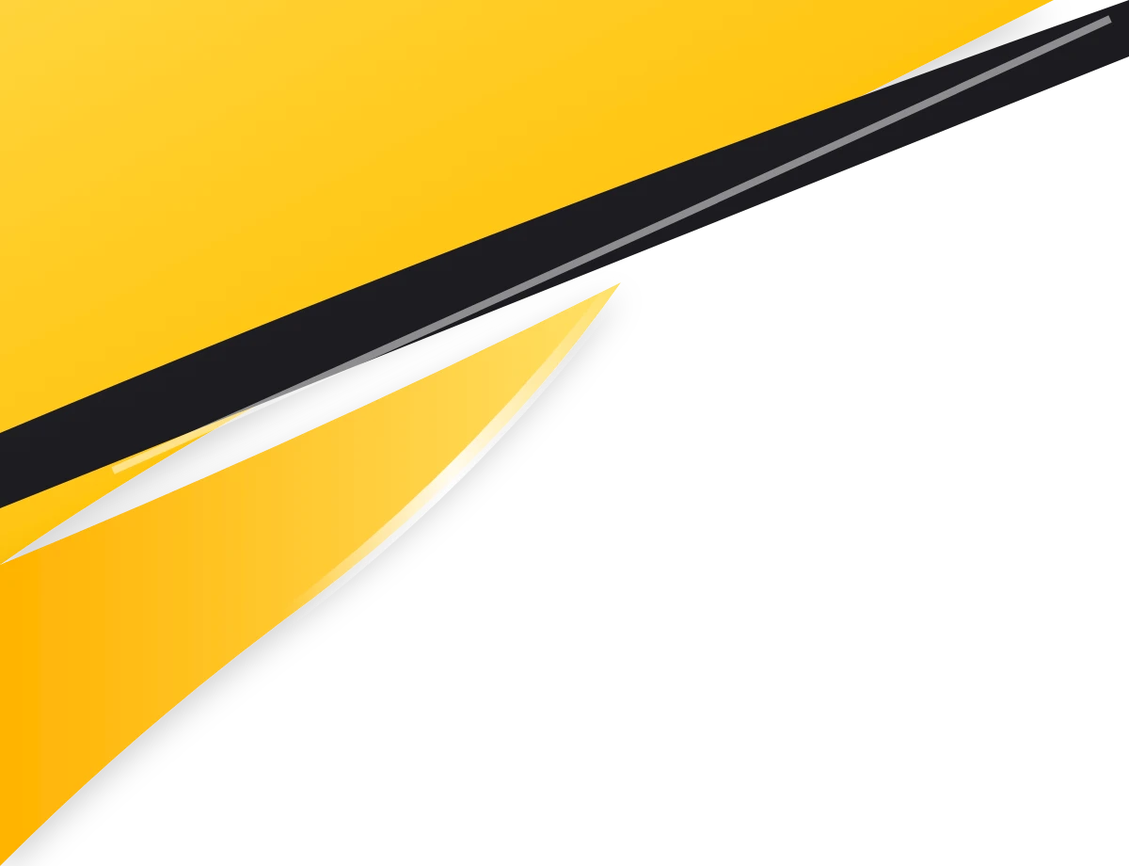
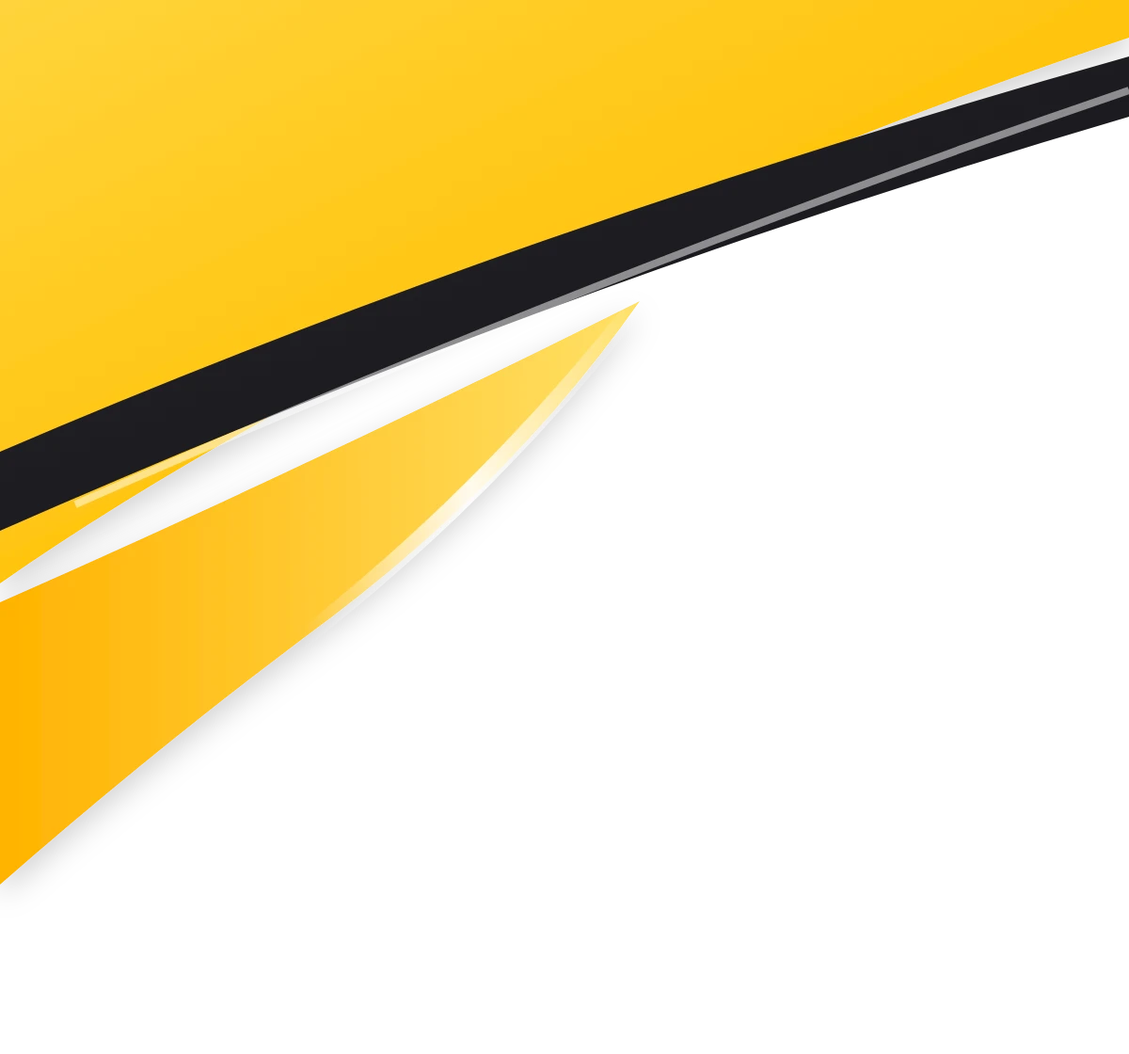
Кабинеттин үстүндөгү тилкелер толук туурасына, кесилбейт
Claude-Session: https://claude.ai/code/session_01QqaFd74dCabiCok1GW4n4v

Changed region(s): [[0.0, 0.0, 1.0, 1.0]]

diff --git a/static/rider.html b/static/rider.html
@@ -100,15 +100,15 @@ input.f:focus{border-color:var(--navy)}
 .quick{display:flex;gap:6px;flex-wrap:wrap;margin-bottom:8px}
 .quick button{border:1px solid var(--line);background:#fff;border-radius:16px;padding:6px 10px;font-size:13px;cursor:pointer}
 </style>
-<link rel="preload" as="image" href="/static/h_taxi.webp?v=8"><link rel="preload" as="image" href="/static/h_box.webp?v=8"><link rel="preload" as="image" href="/static/h_girl.webp?v=8"><link rel="preload" as="image" href="/static/h_map.webp?v=8">
-<link rel="stylesheet" href="/static/theme.css?v=69">
+<link rel="preload" as="image" href="/static/h_taxi.webp?v=9"><link rel="preload" as="image" href="/static/h_box.webp?v=9"><link rel="preload" as="image" href="/static/h_girl.webp?v=9"><link rel="preload" as="image" href="/static/h_map.webp?v=9">
+<link rel="stylesheet" href="/static/theme.css?v=70">
 </head>
 <body>
 <div id="map"></div>
 
 <div class="top">
   <div class="lcol"><div class="logo"><img src="/static/logo.png?v=2" alt="">Такси <b>ТАП!</b></div>
-    <div class="role"><a class="on"><img src="/static/r_bag.webp?v=8" alt="">Жүргүнчү</a><a href="/driver"><img src="/static/r_car.webp?v=8" alt="" class="rc">Айдоочу</a></div></div>
+    <div class="role"><a class="on"><img src="/static/r_bag.webp?v=9" alt="">Жүргүнчү</a><a href="/driver"><img src="/static/r_car.webp?v=9" alt="" class="rc">Айдоочу</a></div></div>
   <button class="round" id="menuBtn" aria-label="Кабинет">👤</button>
 </div>
 
@@ -120,7 +120,7 @@ input.f:focus{border-color:var(--navy)}
 
 <div class="sheet" id="sheet"><div class="grab"></div><div id="view"></div></div>
 <div class="home hide" id="home"></div>
-<nav id="bnav" class="bnav pro"><a data-k="home" class="on"><img src="/static/n_home.webp?v=8" alt="">Башкы бет</a><a data-k="trips"><img src="/static/n_trips.webp?v=8" alt="">Сапарлар</a><a data-k="go" class="big"><img src="/static/n_go.webp?v=8" alt="">Чакыруу</a><a data-k="help"><img src="/static/n_help.webp?v=8" alt="">Жардам</a><a data-k="cab"><img src="/static/n_cab.webp?v=8" alt="">Кабинет</a></nav>
+<nav id="bnav" class="bnav pro"><a data-k="home" class="on"><img src="/static/n_home.webp?v=9" alt="">Башкы бет</a><a data-k="trips"><img src="/static/n_trips.webp?v=9" alt="">Сапарлар</a><a data-k="go" class="big"><img src="/static/n_go.webp?v=9" alt="">Чакыруу</a><a data-k="help"><img src="/static/n_help.webp?v=9" alt="">Жардам</a><a data-k="cab"><img src="/static/n_cab.webp?v=9" alt="">Кабинет</a></nav>
 
 <script src="https://unpkg.com/leaflet@1.9.4/dist/leaflet.js"></script>
 <script src="/static/area.js"></script>
@@ -230,7 +230,7 @@ function gpsPaint() {
   const el = $("#gpsInfo"); if (!el) return;
   const g = S.gps;
   el.className = "gpsinfo " + (g.state === "ok" ? (S.gpsBad ? "mid" : "good") : "bad");
-  if (g.state === "out") { el.innerHTML = `Сиз иштөө аймагынын сыртындасыз <button class="gpsarea" id="gpsArea"><img src="/static/c_map.webp?v=8" alt="">Аймакты көрүү</button>`;
+  if (g.state === "out") { el.innerHTML = `Сиз иштөө аймагынын сыртындасыз <button class="gpsarea" id="gpsArea"><img src="/static/c_map.webp?v=9" alt="">Аймакты көрүү</button>`;
     $("#gpsArea").onclick = () => { homeOn(false); showAreaOnMap(map, () => viewStepA()); }; }
   else el.textContent = g.state === "ok" ? (S.gpsBad ? `📡 Болжолдуу (±${g.acc} м) — картадан тактаңыз` : `📡 GPS так (±${g.acc} м)`)
     : g.state === "denied" ? "⛔ GPS'ке уруксат жок — браузердин жөндөөсүнөн уруксат бериңиз"
@@ -306,11 +306,11 @@ function viewIdle() {
   if (P.work) rec.push({ico:"💼", name:"Иш", sub:P.work.name || "", lat:P.work.lat, lon:P.work.lon});
   (P.recent || []).forEach(r => rec.push({ico:"🕘", name:r.name, sub:"Акыркы сапар", lat:r.lat, lon:r.lon}));
   $("#home").innerHTML = `<div class="hh"><div class="logo"><img src="/static/logo.png?v=2" alt="">Такси <b>ТАП!</b></div><button class="round" id="hMenu" aria-label="Кабинет">${avBtn()}</button></div>
-    <div class="role hrole"><a class="on"><img src="/static/r_bag.webp?v=8" alt="">Жүргүнчү</a>${role2()}</div>
-    <button class="haddr" id="hAddr"><small><img class="pinI" src="/static/pin.webp?v=8" alt="">Сиз турган жер</small><b id="fromTxt">${esc(S.fromAddr || "Аныкталууда…")}</b><span>›</span></button>
-    <div class="tiles">${tile("tTaxi", "h_taxi.webp?v=8", "Такси", `<span id="taxiEta">${homeEta()}</span>`, true, !has("delivery"))}
-      ${has("delivery") ? tile("tDel", "h_box.webp?v=8", "Жеткирүү", "Буюм, документ") : ""}</div>
-    <div class="tiles2">${stile("tOther", "h_girl.webp?v=8", "Башка адамга такси заказ кылуу")}${stile("tMap", "h_map.webp?v=8", "Картадан<br>белгилөө")}</div>
+    <div class="role hrole"><a class="on"><img src="/static/r_bag.webp?v=9" alt="">Жүргүнчү</a>${role2()}</div>
+    <button class="haddr" id="hAddr"><small><img class="pinI" src="/static/pin.webp?v=9" alt="">Сиз турган жер</small><b id="fromTxt">${esc(S.fromAddr || "Аныкталууда…")}</b><span>›</span></button>
+    <div class="tiles">${tile("tTaxi", "h_taxi.webp?v=9", "Такси", `<span id="taxiEta">${homeEta()}</span>`, true, !has("delivery"))}
+      ${has("delivery") ? tile("tDel", "h_box.webp?v=9", "Жеткирүү", "Буюм, документ") : ""}</div>
+    <div class="tiles2">${stile("tOther", "h_girl.webp?v=9", "Башка адамга такси заказ кылуу")}${stile("tMap", "h_map.webp?v=9", "Картадан<br>белгилөө")}</div>
     ${has("comfort") || has("minivan") ? `<div class="tiles3">${has("comfort") ? `<button class="sm" id="tComf"><span>🚘</span>Комфорт</button>` : ""}${has("minivan") ? `<button class="sm" id="tVan"><span>🚐</span>Минивэн</button>` : ""}</div>` : ""}
     <button class="hsearch" id="hSearch">🔍 <span>Каякка барасыз?</span><em>›</em></button>
     <div class="hrec">${rec.slice(0, 5).map((r, i) => `<button class="rec" data-i="${i}"><span class="pi">${r.ico}</span><span class="rt"><b>${esc(r.name)}</b><small>${esc(r.sub)}</small></span><span class="t">${minsTo(r)}</span><span class="chev">›</span></button>`).join("")}</div>
@@ -548,7 +548,7 @@ async function viewQuote() {
     <div class="row"><span class="bul to lt">Б</span><div style="flex:1"><b>${esc(S.toAddr)}</b></div><input class="hn" id="hnT" placeholder="үй №" maxlength="12" value="${esc(S.hnT || "")}"></div>
     <input class="f lm" id="lmT" maxlength="60" placeholder="Б белгиси (милдеттүү эмес)" value="${esc(S.lmT || "")}">
     <div class="cls" id="cls">${q.classes.map(c => `<div data-c="${c.id}"><i>${ICON[c.id] || "🚕"}</i><div class="muted">${esc(c.name)}</div><b>${priceTxt(c)}${q.surge > 1 && c.price ? `<s>${Math.round(c.price / q.surge / 10) * 10} с</s>` : ""}</b></div>`).join("")}</div>
-    ${q.fixed ? `<div class="fixbox"><img src="/static/c_map.webp?v=8" alt=""><span><b>Туруктуу баа</b>${esc(q.fixed)} — баа өзгөрбөйт</span></div>` : ""}
+    ${q.fixed ? `<div class="fixbox"><img src="/static/c_map.webp?v=9" alt=""><span><b>Туруктуу баа</b>${esc(q.fixed)} — баа өзгөрбөйт</span></div>` : ""}
     ${q.surge > 1 ? `<div class="surgebox"><span>💓</span>Талап жогору ×${q.surge} — баа бир аз кымбатыраак. Бир аздан кийин арзандашы мүмкүн.</div>` : ""}
     <div class="muted" style="margin-top:6px">${sub} · <span id="qp"></span></div>
     <div id="extra"></div>
@@ -762,7 +762,7 @@ function sheetBox(html, after) {
   const x = $("#bxX"); if (x) x.onclick = closeBox; if (after) after();
 }
 function confirmOut() {
-  if (S.ride) return sheetBox(`<div class="lgx"><div class="lg-ic" style="background:#fff6dd"><img src="/static/r_car.webp?v=8" alt="" style="width:56px"></div><h2>Азыр чыгууга болбойт</h2>
+  if (S.ride) return sheetBox(`<div class="lgx"><div class="lg-ic" style="background:#fff6dd"><img src="/static/r_car.webp?v=9" alt="" style="width:56px"></div><h2>Азыр чыгууга болбойт</h2>
       <p class="muted">Сизде жүрүп жаткан сапар бар. Адегенде сапарды бүтүрүңүз же жокко чыгарыңыз.</p>
       <button class="btn main" id="lgBack">Сапарга кайтуу</button></div>`, () => { $("#lgBack").onclick = () => { closeBox(); viewRide(); }; });
   sheetBox(`<div class="lgx"><div class="lg-ic">🚪</div><h2>Аккаунттан чыгасызбы?</h2>
@@ -797,7 +797,7 @@ function viewDone(r) {
   render(`${head}
     ${r.discount ? `<p class="muted" style="margin:-4px 0 6px">🎁 Промокод: −${Math.round(r.discount)} сом</p>` : ""}${r.wait.fee ? `<p class="muted" style="margin:-4px 0 6px">⏳ Күтүү: +${r.wait.fee} сом (баада бар)</p>` : ""}
     ${r.rated ? `<p class="muted" style="text-align:center;margin:14px 0">✓ Бааңыз кабыл алынды. Рахмат!</p>` : `
-    <div class="done-car"><img src="/static/r_car.webp?v=8" alt=""></div><h2 class="done-q" id="dq">Сапар кандай болду?</h2><p class="muted" style="text-align:center;margin:0">Пикириңиз жашыруун калат</p>
+    <div class="done-car"><img src="/static/r_car.webp?v=9" alt=""></div><h2 class="done-q" id="dq">Сапар кандай болду?</h2><p class="muted" style="text-align:center;margin:0">Пикириңиз жашыруун калат</p>
     <div class="stars big" id="stars">${[1,2,3,4,5].map(n => `<span data-n="${n}">★</span>`).join("")}</div>
     <div class="tagrow" id="tags"></div>
     <input class="f hide" id="cm" maxlength="300" placeholder="Пикир…">
@@ -892,15 +892,15 @@ async function viewCabinet() {
   const P = PLACES && !PLACES.error ? PLACES : await api("/api/places");
   const place = (k, ico, t) => `<div class="hrow"><span>${ico} <b>${t}</b> ${P[k] ? `<span class="muted">· ${esc(P[k].name || "белгиленген")}</span>` : `<span class="muted">· белгилене элек</span>`}</span>
     <span><button class="lnk-b" style="width:auto;height:32px;padding:0 10px;font-size:13px" data-pl="${k}">${P[k] ? "Өзгөртүү" : "Кошуу"}</button>${P[k] ? ` <button class="lnk-b" style="width:32px;height:32px;font-size:13px" data-del="${k}">✕</button>` : ""}</span></div>`;
-  const li = (id, img, t, sub, href) => `<${href ? `a href="${href}"` : "button"} class="ccard" id="${id}"><img class="cimg" src="/static/${img}.webp?v=8" alt=""><span class="ct"><b>${t}</b>${sub ? `<small>${sub}</small>` : ""}</span><em>›</em></${href ? "a" : "button"}>`;
+  const li = (id, img, t, sub, href) => `<${href ? `a href="${href}"` : "button"} class="ccard" id="${id}"><img class="cimg" src="/static/${img}.webp?v=9" alt=""><span class="ct"><b>${t}</b>${sub ? `<small>${sub}</small>` : ""}</span><em>›</em></${href ? "a" : "button"}>`;
   let promo = ""; try { promo = localStorage.getItem("promoPre") || ""; } catch (e) {}
   render(""); homeOn(true);
   $("#home").innerHTML = `<div class="cab2">
       <button class="cab-av" id="avBox">${me.avatar ? `<img src="${esc(me.avatar)}" alt="">` : esc((me.name || "?")[0].toUpperCase())}<span class="cab-cam">📷</span></button>
       <input type="file" accept="image/*" capture="user" id="avCam" hidden><input type="file" accept="image/*" id="avGal" hidden>
       <div class="cab-nm">${esc(me.name || "Жүргүнчү")}</div><div class="cab-ph">${esc(me.phone)}</div>
-      <div class="cab-q"><button id="qH"><img src="/static/c_trips.webp?v=8" alt="">Сапарлар</button><a href="${me.bot ? "https://t.me/" + me.bot : "/terms"}" target="_blank"><img src="/static/c_help.webp?v=8" alt="">Колдоо</a>
-        <button id="qA"><img src="/static/c_addr.webp?v=8" alt="">Даректер</button><button id="qS"><img src="/static/c_set.webp?v=8" alt="">Жөндөөлөр</button></div>
+      <div class="cab-q"><button id="qH"><img src="/static/c_trips.webp?v=9" alt="">Сапарлар</button><a href="${me.bot ? "https://t.me/" + me.bot : "/terms"}" target="_blank"><img src="/static/c_help.webp?v=9" alt="">Колдоо</a>
+        <button id="qA"><img src="/static/c_addr.webp?v=9" alt="">Даректер</button><button id="qS"><img src="/static/c_set.webp?v=9" alt="">Жөндөөлөр</button></div>
     <div id="cabMore"></div>
     ${li("cPromo", "c_gift", "Промокод", promo ? "Кийинки заказга: " + esc(promo) : "Промокод киргизүү")}
     ${li("cPay", "c_card", "Төлөм ыкмасы", "Накталай — айдоочуга түз")}
@@ -966,7 +966,7 @@ try { if (new URLSearchParams(location.search).get("next") === "park") localStor
 try { const qs = new URLSearchParams(location.search), rf = qs.get("ref"), pm = qs.get("promo");
   if (rf) { localStorage.setItem("parkRef", rf); if (pm) localStorage.setItem("promoPre", pm.toUpperCase()); history.replaceState(null, "", "/"); } } catch (e) {}
 let ME_ROLE = {};
-const role2 = () => ME_ROLE.park && !ME_ROLE.driver ? `<a href="/park"><span class="rpk">🏢</span>Парк</a>` : `<a href="/driver"><img src="/static/r_car.webp?v=8" alt="" class="rc">Айдоочу</a>`;
+const role2 = () => ME_ROLE.park && !ME_ROLE.driver ? `<a href="/park"><span class="rpk">🏢</span>Парк</a>` : `<a href="/driver"><img src="/static/r_car.webp?v=9" alt="" class="rc">Айдоочу</a>`;
 async function boot() {
   const me = await api("/api/me"); ME_ROLE = {park:me.park, driver:me.driver, admin:me.admin};
   if (ME_ROLE.park && !ME_ROLE.driver) document.querySelectorAll(".role a[href='/driver']").forEach(a => a.outerHTML = role2());

diff --git a/static/theme.css b/static/theme.css
@@ -496,7 +496,7 @@ body.dnav .sheet{max-height:calc(100dvh - 318px - env(safe-area-inset-top,0px))!
 .drole a{font-size:12px!important;padding:3px 8px 3px 3px!important;gap:2px}.drole a img{width:22px;height:22px}.drole a img.rc{width:30px;height:20px}
 .lnk-t b .lki{height:26px;width:26px;object-fit:contain;vertical-align:-7px;margin-right:2px}.lnk-t b .lki.rc{width:38px;height:24px;vertical-align:-6px}
 /* ===== Жүргүнчүнүн кабинети — Kake'нин макети (фон + чакан өлчөмдөр) ===== */
-#home.cabbg{background-color:#fff;background-image:url(/static/cb_tl.webp?v=8),url(/static/cb_tr.webp?v=8),url(/static/cb_bl.webp?v=8),url(/static/cb_br.webp?v=8);
+#home.cabbg{background-color:#fff;background-image:url(/static/cb_tl.webp?v=9),url(/static/cb_tr.webp?v=9),url(/static/cb_bl.webp?v=9),url(/static/cb_br.webp?v=9);
   background-repeat:no-repeat;background-size:46% auto,48% auto,22% auto,22% auto;background-position:left top,right top,left bottom,right bottom;background-attachment:local}
 .cab2{text-align:center;padding-top:6px}
 .cab2 .cab-av{width:84px;height:84px;margin:0 auto 4px;border:4px solid #ffc400;box-shadow:0 8px 22px rgba(255,170,0,.35);background:#fff;font-size:34px}
@@ -514,7 +514,7 @@ body.dnav .sheet{max-height:calc(100dvh - 318px - env(safe-area-inset-top,0px))!
 /* ===== Бирдиктүү өлчөмдөр (жүргүнчүнүн кабинетиндей) — айдоочунун кабинети ===== */
 .sheet.cabbg{position:fixed}
 .sheet.cabbg::before{content:"";position:absolute;left:0;right:0;top:0;height:170px;pointer-events:none;border-radius:22px 22px 0 0;opacity:.5;
-  background:url(/static/cb_tl.webp?v=8) left top/34% auto no-repeat,url(/static/cb_tr.webp?v=8) right top/36% auto no-repeat}
+  background:url(/static/cb_tl.webp?v=9) left top/34% auto no-repeat,url(/static/cb_tr.webp?v=9) right top/36% auto no-repeat}
 .sheet.cabbg>*{position:relative;z-index:1}
 .sheet.cabbg h2{font-size:23px;font-weight:900;margin:2px 0 10px}
 .sheet.cabbg .note{font-size:14px;line-height:1.4;padding:11px 13px;border-radius:18px!important;box-shadow:0 6px 16px rgba(20,20,30,.06)}
@@ -527,11 +527,11 @@ body.dnav .sheet{max-height:calc(100dvh - 318px - env(safe-area-inset-top,0px))!
 .sheet.cabbg .hist .row{font-size:14px}
 /* ===== Парктын кабинети: ошол эле фон жана өлчөмдөр ===== */
 .pkbg{position:absolute;left:0;right:0;top:0;height:220px;pointer-events:none;opacity:.55;
-  background:url(/static/cb_tl.webp?v=8) left top/40% auto no-repeat,url(/static/cb_tr.webp?v=8) right top/42% auto no-repeat}
+  background:url(/static/cb_tl.webp?v=9) left top/40% auto no-repeat,url(/static/cb_tr.webp?v=9) right top/42% auto no-repeat}
 .pkbg+.wrap{position:relative}
 /* ===== Башкы бет (жүргүнчү): ошол эле фон жана өлчөмдөр ===== */
 #home.hbg::before{content:"";position:absolute;left:0;right:0;top:0;height:260px;pointer-events:none;opacity:.5;z-index:0;
-  background:url(/static/cb_tl.webp?v=8) left top/42% auto no-repeat,url(/static/cb_tr.webp?v=8) right top/44% auto no-repeat}
+  background:url(/static/cb_tl.webp?v=9) left top/42% auto no-repeat,url(/static/cb_tr.webp?v=9) right top/44% auto no-repeat}
 #home.hbg>*{position:relative;z-index:1}
 #home.hbg .haddr b{font-size:22px;font-weight:900}
 #home.hbg .tile b{font-size:22px!important}#home.hbg .tile small{font-size:14px!important}
@@ -603,7 +603,7 @@ body.dnav .sheet{max-height:calc(100dvh - 318px - env(safe-area-inset-top,0px))!
 .dspr{font-size:15px}.dspr:empty{display:none}
 /* ===== Жаңы стиль (Kake'нин макети 2): сары-кара жалпак сүрөтчөлөр, тилкелүү фон, шаар силуэти ===== */
 img[src*="/static/c_"]:not([src*="c_car."]):not([src*="c_hdr"]):not([src*="c_taxi"]),img[src*="/static/n_"]:not([src*="n_go"]){object-fit:contain!important;background:transparent!important;border-radius:0!important}
-#home.cabbg{background-color:#fafafb;background-image:url(/static/cb_tl.webp?v=8),url(/static/cb_tr.webp?v=8),url(/static/cb_br.webp?v=8),url(/static/cb_bl.webp?v=8);
+#home.cabbg{background-color:#fafafb;background-image:url(/static/cb_tl.webp?v=9),url(/static/cb_tr.webp?v=9),url(/static/cb_br.webp?v=9),url(/static/cb_bl.webp?v=9);
   background-size:62% auto,34% auto,30% auto,100% auto;background-position:left -2px top -2px,right -2px top 190px,right bottom 70px,left bottom 70px}
 .cab2 .cab-q img{width:44px;height:44px;border-radius:0}
 .cab2 .cab-q>*{border-radius:20px;box-shadow:0 8px 20px rgba(20,20,30,.08)}
@@ -612,17 +612,18 @@ img[src*="/static/c_"]:not([src*="c_car."]):not([src*="c_hdr"]):not([src*="c_tax
 #home.cabbg .cab-out{background:linear-gradient(180deg,#ffd84a,#ffc400 60%,#ffb300)!important;color:#16161a!important;border:0!important;box-shadow:0 10px 24px rgba(255,170,0,.4)!important;
   display:flex!important;align-items:center;justify-content:center;gap:10px;font-weight:900!important}
 #home.cabbg .cab-out svg{width:26px;height:26px}
-.sheet.cabbg::before{opacity:1;height:150px;background:url(/static/cb_tl.webp?v=8) left -2px top -2px/52% auto no-repeat,url(/static/cb_tr.webp?v=8) right -2px top -40px/26% auto no-repeat}
-.pkbg{opacity:1;background:url(/static/cb_tl.webp?v=8) left -2px top -2px/58% auto no-repeat,url(/static/cb_tr.webp?v=8) right -2px top 60px/30% auto no-repeat}
-#home.hbg::before{opacity:.9;background:url(/static/cb_tl.webp?v=8) left -2px top -2px/60% auto no-repeat,url(/static/cb_tr.webp?v=8) right -2px top 120px/30% auto no-repeat}
+.sheet.cabbg::before{opacity:1;height:150px;background:url(/static/cb_tl.webp?v=9) left -2px top -2px/52% auto no-repeat,url(/static/cb_tr.webp?v=9) right -2px top -40px/26% auto no-repeat}
+.pkbg{opacity:1;background:url(/static/cb_tl.webp?v=9) left -2px top -2px/58% auto no-repeat,url(/static/cb_tr.webp?v=9) right -2px top 60px/30% auto no-repeat}
+#home.hbg::before{opacity:.9;background:url(/static/cb_tl.webp?v=9) left -2px top -2px/60% auto no-repeat,url(/static/cb_tr.webp?v=9) right -2px top 120px/30% auto no-repeat}
 .bnav.pro a:not(.big) img{width:34px!important;height:34px!important}
-.sheet.cabbg::before{height:170px;background:url(/static/cb_tr.webp?v=8) right -2px top -30px/30% auto no-repeat}
-#home.hbg::before{height:360px;background:url(/static/cb_tr.webp?v=8) right -2px top 150px/26% auto no-repeat}
-.pkbg{background:url(/static/cb_tr.webp?v=8) right -2px top 40px/32% auto no-repeat}
+.sheet.cabbg::before{height:170px;background:url(/static/cb_tr.webp?v=9) right -2px top -30px/30% auto no-repeat}
+#home.hbg::before{height:360px;background:url(/static/cb_tr.webp?v=9) right -2px top 150px/26% auto no-repeat}
+.pkbg{background:url(/static/cb_tr.webp?v=9) right -2px top 40px/32% auto no-repeat}
 /* макет 2 — фондун жайгашуусу */
-#home.cabbg{background-color:#f7f7f9;background-image:url(/static/cb_tl.webp?v=8),url(/static/cb_tr.webp?v=8),url(/static/cb_br.webp?v=8),url(/static/cb_bl.webp?v=8);
+#home.cabbg{background-color:#f7f7f9;background-image:url(/static/cb_tl.webp?v=9),url(/static/cb_tr.webp?v=9),url(/static/cb_br.webp?v=9),url(/static/cb_bl.webp?v=9);
   background-size:78% auto,40% auto,36% auto,100% auto;background-position:left top,right 0 top 200px,right 0 bottom 64px,left bottom 64px}
 .cab2 .cab-av{background:#fff}
-.sheet.cabbg::before{height:200px;opacity:1;background:url(/static/cb_tr.webp?v=8) right -2px top -50px/30% auto no-repeat}
-#home.hbg::before{height:380px;opacity:1;background:url(/static/cb_tr.webp?v=8) right 0 top 140px/30% auto no-repeat}
-.pkbg{opacity:1;background:url(/static/cb_tr.webp?v=8) right 0 top 30px/34% auto no-repeat}
+.sheet.cabbg::before{height:200px;opacity:1;background:url(/static/cb_tr.webp?v=9) right -2px top -50px/30% auto no-repeat}
+#home.hbg::before{height:380px;opacity:1;background:url(/static/cb_tr.webp?v=9) right 0 top 140px/30% auto no-repeat}
+.pkbg{opacity:1;background:url(/static/cb_tr.webp?v=9) right 0 top 30px/34% auto no-repeat}
+#home.cabbg{background-size:100% auto,40% auto,36% auto,100% auto;background-position:left top,right 0 top 260px,right 0 bottom 64px,left bottom 64px}

diff --git a/static/driver.html b/static/driver.html
@@ -81,14 +81,14 @@ label.l{font-size:13px;color:var(--soft);display:block;margin:6px 0 4px}
 .quick button{border:1px solid var(--line);background:#fff;border-radius:16px;padding:6px 10px;font-size:13px;cursor:pointer}
 .sw{display:flex;align-items:center;justify-content:space-between;padding:12px 0;border-top:1px solid var(--line);margin-top:10px}
 </style>
-<link rel="stylesheet" href="/static/theme.css?v=69">
+<link rel="stylesheet" href="/static/theme.css?v=70">
 </head>
 <body>
-<nav id="bnav" class="bnav pro"><a data-k="earn"><img src="/static/n_earn.webp?v=8" alt="">Киреше</a><a data-k="hist"><img src="/static/n_trips.webp?v=8" alt="">Сапарлар</a><a data-k="line" class="big on"><img src="/static/n_go.webp?v=8" alt="">Линия</a><a data-k="help"><img src="/static/n_help.webp?v=8" alt="">Жардам</a><a data-k="cab"><img src="/static/n_cab.webp?v=8" alt="">Кабинет</a></nav>
+<nav id="bnav" class="bnav pro"><a data-k="earn"><img src="/static/n_earn.webp?v=9" alt="">Киреше</a><a data-k="hist"><img src="/static/n_trips.webp?v=9" alt="">Сапарлар</a><a data-k="line" class="big on"><img src="/static/n_go.webp?v=9" alt="">Линия</a><a data-k="help"><img src="/static/n_help.webp?v=9" alt="">Жардам</a><a data-k="cab"><img src="/static/n_cab.webp?v=9" alt="">Кабинет</a></nav>
 <div id="map"></div>
 <div class="top">
   <div class="lcol"><div class="logo"><img src="/static/logo.png?v=2" alt="">Такси <b>ТАП!</b></div>
-    <div class="role drole"><a href="/"><img src="/static/r_bag.webp?v=8" alt="">Жүргүнчү</a><a class="on"><img src="/static/r_car.webp?v=8" alt="" class="rc">Айдоочу</a></div></div>
+    <div class="role drole"><a href="/"><img src="/static/r_bag.webp?v=9" alt="">Жүргүнчү</a><a class="on"><img src="/static/r_car.webp?v=9" alt="" class="rc">Айдоочу</a></div></div>
   <div class="rcol"><button class="state hide" id="stBadge" style="display:none">Офлайн</button>
     <button class="tbtn hide topav" id="cabBtn" aria-label="Менин кабинетим">👤</button>
     <div class="r2"><button class="ep hide" id="earn"></button></div>
@@ -285,9 +285,9 @@ document.addEventListener("click", e => { if (e.target.closest && e.target.close
 function outHTML() {
   if (D.in_area !== false) return "";
   const nm = D.area_title || (D.area_gen && D.area_gen !== "иштөө аймагынын" ? D.area_gen.replace(/нун$|нын$|нүн$|нин$/, "") : "");
-  return `<div class="outn"><img src="/static/c_map.webp?v=8" alt=""><div><b>Сиз иштөө аймагынын сыртындасыз</b>
+  return `<div class="outn"><img src="/static/c_map.webp?v=9" alt=""><div><b>Сиз иштөө аймагынын сыртындасыз</b>
     <span>Такси ТАП! ${nm ? `<b>${esc(nm)}</b> аймагында` : "иштөө аймагында"} гана иштейт — бул жерде заказ келбейт. Аймакка киргенде заказдар өзү келе баштайт.</span>
-    <button class="btn ghost ib" id="areaShow"><img src="/static/c_map.webp?v=8" alt="">Аймакты картадан көрүү</button></div></div>`;
+    <button class="btn ghost ib" id="areaShow"><img src="/static/c_map.webp?v=9" alt="">Аймакты картадан көрүү</button></div></div>`;
 }
 
 function viewHome() {
@@ -328,13 +328,13 @@ function workHTML() {
   if (!ME_D.park && !ME_D.admin) return "";
   return `<div class="work"><h4>💼 Менин ишим</h4><div class="wg">
     ${ME_D.park ? `<a href="/park"><span>🏢</span>Таксопарк<small>${esc(ME_D.park)}</small></a>` : ""}
-    ${ME_D.admin ? `<a href="/admin"><img src="/static/c_tools.webp?v=8" alt="">Админ<small>Башкаруу</small></a>` : ""}</div></div>`;
+    ${ME_D.admin ? `<a href="/admin"><img src="/static/c_tools.webp?v=9" alt="">Админ<small>Башкаруу</small></a>` : ""}</div></div>`;
 }
 const SVG_SH = '<svg viewBox="0 0 24 24" fill="none" stroke="currentColor" stroke-width="2.2" stroke-linecap="round" stroke-linejoin="round"><circle cx="18" cy="5" r="3"/><circle cx="6" cy="12" r="3"/><circle cx="18" cy="19" r="3"/><path d="M8.6 13.5l6.8 4M15.4 6.5l-6.8 4"/></svg>';
 const SVG_ZM = '<svg viewBox="0 0 24 24" fill="none" stroke="currentColor" stroke-width="2.2" stroke-linecap="round"><path d="M4 9V4h5M20 9V4h-5M4 15v5h5M20 15v5h-5"/></svg>';
 function myQrHTML() {
   const q = D.qr; if (!q || !window.qrSvg) return "";
-  return `<div class="myqr"><h3><img src="/static/n_cab.webp?v=8" alt="">Менин QR кодум</h3>
+  return `<div class="myqr"><h3><img src="/static/n_cab.webp?v=9" alt="">Менин QR кодум</h3>
     <div class="qq">${qrSvg(q.link, 170)}</div>
     <div class="nm">${esc(D.name || "")} · ${esc(q.park)}</div>
     <div class="muted">Жүргүнчүгө сапардан кийин көрсөтүңүз — сканерлесе, кийинки жолу сайттан чакырат</div>
@@ -851,7 +851,7 @@ function viewHelp() {
   window.SHEET && SHEET.expand();
 }
 function confirmOut() {
-  if (D && D.ride) return overlay(`<div class="lgx"><div class="lg-ic" style="background:#fff6dd"><img src="/static/r_car.webp?v=8" alt="" style="width:56px"></div><h2>Азыр чыгууга болбойт</h2>
+  if (D && D.ride) return overlay(`<div class="lgx"><div class="lg-ic" style="background:#fff6dd"><img src="/static/r_car.webp?v=9" alt="" style="width:56px"></div><h2>Азыр чыгууга болбойт</h2>
       <p class="muted">Сизде жүрүп жаткан сапар бар. Адегенде сапарды бүтүрүңүз.</p>
       <button class="btn main" id="ovlX">Сапарга кайтуу</button></div>`);
   overlay(`<div class="lgx"><div class="lg-ic">🚪</div><h2>Аккаунттан чыгасызбы?</h2>${D && D.online ? `<div class="lg-warn">🟢 Сиз азыр <b>линиядасыз</b>. Чыксаңыз линиядан да чыгасыз — заказ келбей калат.</div>` : ""}

diff --git a/static/park.html b/static/park.html
@@ -6,7 +6,7 @@
 <meta name="theme-color" content="#fafafa">
 <title>Таксопарк кабинети — Такси ТАП!</title>
 <link rel="apple-touch-icon" href="/static/icon-192.png?v=4">
-<link rel="stylesheet" href="/static/theme.css?v=69">
+<link rel="stylesheet" href="/static/theme.css?v=70">
 <style>
 body{margin:0;font-family:Inter,system-ui,sans-serif;background:#fff;color:#16161a;position:relative}
 .wrap{max-width:560px;margin:0 auto;padding:calc(env(safe-area-inset-top,0px) + 14px) 16px 40px}
@@ -166,12 +166,12 @@ function draw() {
         : `<p class="muted">Азырынча айдоочу жок. Айдоочу адегенде сайтта «Айдоочу болуу» аркылуу катталып, текшерүүдөн өтүшү керек, андан кийин аны бул жерге номери менен кошосуз.</p>`}
       <div class="row"><input class="f" id="dph" placeholder="Айдоочунун номери: 0700 123 456" inputmode="tel"><button class="btn" id="dadd">Кошуу</button></div>
       <div id="dmsg"></div></div>
-    <div class="card"><h2 class="ih"><img src="/static/c_gift.webp?v=8" alt="">Жүргүнчүлөрдү тартуу</h2>
+    <div class="card"><h2 class="ih"><img src="/static/c_gift.webp?v=9" alt="">Жүргүнчүлөрдү тартуу</h2>
       <div class="qr"><div id="qr"></div><div><div class="muted">Паркыңыздын коду</div><div class="code">${esc(p.code)}</div>
         <div class="muted" style="margin-top:4px">Жаңы жүргүнчү ушул QR менен келип, биринчи сапарын бүтүрсө — сизге <b>${fmt(p.ref_bonus)} сом</b>.${p.promo_amount ? ` Ага биринчи сапарга <b>−${p.promo_amount} сом</b>.` : ""}</div></div></div>
       <div class="st3"><div><b>${ST.qr.scans}</b><small>сканерленди</small></div><div><b>${ST.qr.joined}</b><small>катталды</small></div><div><b>${ST.qr.rode}</b><small>сапар бүтүрдү</small></div></div>
       <div class="muted" style="margin:12px 0 6px">Басып чыгаруу үлгүсү</div>
-      <div class="tpl">${TPL.map(([k, im, t]) => `<button data-t="${k}" class="${k === TK ? "on" : ""}"><img src="/static/${im}.webp?v=8" alt="">${t}</button>`).join("")}</div>
+      <div class="tpl">${TPL.map(([k, im, t]) => `<button data-t="${k}" class="${k === TK ? "on" : ""}"><img src="/static/${im}.webp?v=9" alt="">${t}</button>`).join("")}</div>
       <div class="row"><button class="btn ib" id="print">${IC.print}Басып чыгаруу</button><button class="btn g ib" id="share">${IC.share}Бөлүшүү</button></div>
       <p class="muted" style="margin-top:8px;word-break:break-all">${esc(link)}</p>
       <p class="muted" style="font-size:12.5px">Ар бир айдоочуңуздун да өзүнүн QR'ы бар (айдоочунун кабинетинде) — ким канча жүргүнчү тартканы көрүнөт.</p>

diff --git a/static/area.js b/static/area.js
@@ -53,7 +53,7 @@ function showAreaOnMap(map, onClose) {
   window.SHEET && SHEET.collapse && SHEET.collapse();
   document.querySelectorAll(".areachip").forEach(x => x.remove());
   const c = document.createElement("div"); c.className = "areachip";
-  c.innerHTML = `<img src="/static/c_map.webp?v=8" alt=""><span><b>${a.title || a.name}</b><small>Сары сызыктын ичинде заказ келет</small></span><button aria-label="Жабуу">✕</button>`;
+  c.innerHTML = `<img src="/static/c_map.webp?v=9" alt=""><span><b>${a.title || a.name}</b><small>Сары сызыктын ичинде заказ келет</small></span><button aria-label="Жабуу">✕</button>`;
   c.querySelector("button").onclick = () => { c.remove(); if (_areaHl) { _areaHl.remove(); _areaHl = null; } onClose && onClose(); };
   document.body.appendChild(c);
 }
@@ -172,8 +172,8 @@ function linksHTML(bot) {
   const row = (id, ico, title, url, sub) => `<div class="lnk"><div class="lnk-t"><b>${ico} ${title}</b><span>${url.replace(/^https?:\/\//, "")}</span>${sub ? `<small>${sub}</small>` : ""}</div>
     <button class="lnk-b" data-copy="${url}">📋</button><button class="lnk-b" data-share="${url}" data-title="${title}">📤</button></div>`;
   return `<div class="lnks"><h3 style="margin:4px 0 8px">🔗 Такси ТАП! шилтемелери</h3>
-    ${row("p", '<img class="lki" src="/static/r_bag.webp?v=8" alt="">', "Жүргүнчүлөр үчүн", o + "/", "Таксини ушул жерден чакырышат")}
-    ${row("d", '<img class="lki rc" src="/static/r_car.webp?v=8" alt="">', "Айдоочулар үчүн", o + "/driver", "Айдоочу болуп катталуу")}
+    ${row("p", '<img class="lki" src="/static/r_bag.webp?v=9" alt="">', "Жүргүнчүлөр үчүн", o + "/", "Таксини ушул жерден чакырышат")}
+    ${row("d", '<img class="lki rc" src="/static/r_car.webp?v=9" alt="">', "Айдоочулар үчүн", o + "/driver", "Айдоочу болуп катталуу")}
     ${bot ? row("b", "✈", "Telegram бот", "https://t.me/" + bot, "Номерди ырастоо жана билдирүүлөр") : ""}
     <p class="muted" style="margin:6px 0 0">📋 — көчүрүү, 📤 — WhatsApp, Telegram аркылуу жөнөтүү.</p></div>`;
 }

diff --git a/static/sw.js b/static/sw.js
@@ -1,8 +1,8 @@
 // Такси ТАП! — service worker: тиркеме катары орнотуу жана интернет жок болсо жөнөкөй бет.
 // API'лер жана карта кэштелбейт — абал ар дайым жаңы болушу керек.
-const SHELL = "taxitap-v93";
-const PAGES = ["/", "/driver", "/static/area.js", "/static/manifest.json", "/static/icon-192.png", "/static/logo.png", "/static/n_home.webp?v=8", "/static/n_trips.webp?v=8", "/static/n_go.webp?v=8", "/static/n_help.webp?v=8", "/static/n_cab.webp?v=8", "/static/n_earn.webp?v=8", "/static/r_bag.webp?v=8", "/static/r_car.webp?v=8", "/static/cb_tl.webp?v=8", "/static/cb_tr.webp?v=8", "/static/qr.js", "/static/qrshare.js", "/static/c_car.webp?v=8",
-  "/static/h_taxi.webp?v=8", "/static/h_box.webp?v=8", "/static/h_girl.webp?v=8", "/static/h_map.webp?v=8"];
+const SHELL = "taxitap-v94";
+const PAGES = ["/", "/driver", "/static/area.js", "/static/manifest.json", "/static/icon-192.png", "/static/logo.png", "/static/n_home.webp?v=9", "/static/n_trips.webp?v=9", "/static/n_go.webp?v=9", "/static/n_help.webp?v=9", "/static/n_cab.webp?v=9", "/static/n_earn.webp?v=9", "/static/r_bag.webp?v=9", "/static/r_car.webp?v=9", "/static/cb_tl.webp?v=9", "/static/cb_tr.webp?v=9", "/static/qr.js", "/static/qrshare.js", "/static/c_car.webp?v=9",
+  "/static/h_taxi.webp?v=9", "/static/h_box.webp?v=9", "/static/h_girl.webp?v=9", "/static/h_map.webp?v=9"];
 self.addEventListener("install", e => e.waitUntil(caches.open(SHELL).then(c => c.addAll(PAGES)).then(() => self.skipWaiting())));
 self.addEventListener("activate", e => e.waitUntil(
   caches.keys().then(ks => Promise.all(ks.filter(k => k !== SHELL).map(k => caches.delete(k)))).then(() => self.clients.claim())));

diff --git a/static/qrshare.js b/static/qrshare.js
@@ -42,7 +42,7 @@
     if (!styled) { const s = document.createElement("style"); s.textContent = css; document.head.appendChild(s); styled = true; }
     const full = o.text + "\n" + o.link;
     const ov = document.createElement("div"); ov.className = "qrs-ov";
-    ov.innerHTML = `<div class="qrs-b"><div class="g"></div><h3><img src="/static/c_gift.webp?v=8" alt="">Бөлүшүү</h3>
+    ov.innerHTML = `<div class="qrs-b"><div class="g"></div><h3><img src="/static/c_gift.webp?v=9" alt="">Бөлүшүү</h3>
       <div class="qrs-g">
         <button data-k="wa"><div class="qrs-i" style="background:linear-gradient(135deg,#3ddc6f,#1fa855)">${I.wa}</div>WhatsApp</button>
         <button data-k="tg"><div class="qrs-i" style="background:linear-gradient(135deg,#45b5f0,#1f88d6)">${I.tg}</div>Telegram</button>

diff --git a/static/admin.html b/static/admin.html
@@ -68,7 +68,7 @@ td input.f{padding:7px 8px;max-width:90px;min-width:58px}
 .docs{flex-wrap:wrap}.chk{margin:10px 0 2px;padding:10px 12px;border-radius:12px;background:#fff8e1}.chk label{font-weight:500!important;color:#222!important;font-size:14px!important;display:flex!important;gap:8px;align-items:flex-start}.chk input{width:18px;height:18px;flex:none;margin-top:1px}
 .btn:disabled{opacity:.4;cursor:not-allowed}
 </style>
-<link rel="stylesheet" href="/static/theme.css?v=69">
+<link rel="stylesheet" href="/static/theme.css?v=70">
 </head>
 <body class="adm">
 <header><div class="logo"><img src="/static/logo.png?v=2" alt="">Такси <b>ТАП!</b><span class="ver">Админ</span></div><div class="live" id="live"></div></header>

diff --git a/static/track.html b/static/track.html
@@ -22,7 +22,7 @@ h2{font-size:20px;margin:0 0 8px}
 .carm{width:30px;height:30px;border-radius:50%;background:var(--navy);border:3px solid #fff;box-shadow:0 2px 6px rgba(0,0,0,.3);display:grid;place-items:center;color:#fff;font-size:14px}
 .carm.g{background:var(--gold);color:#16161a}
 </style>
-<link rel="stylesheet" href="/static/theme.css?v=69">
+<link rel="stylesheet" href="/static/theme.css?v=70">
 </head>
 <body>
 <div id="map"></div>

diff --git a/static/terms.html b/static/terms.html
@@ -14,7 +14,7 @@ h1{font-size:22px;margin:4px 0 4px}h2{font-size:17px;margin:24px 0 6px}
 p,li{font-size:15px}.muted{color:#8a8a95;font-size:13px}
 a{color:#9a7400}
 </style>
-<link rel="stylesheet" href="/static/theme.css?v=69">
+<link rel="stylesheet" href="/static/theme.css?v=70">
 </head>
 <body>
 <header>Такси <b>ТАП!</b></header>
